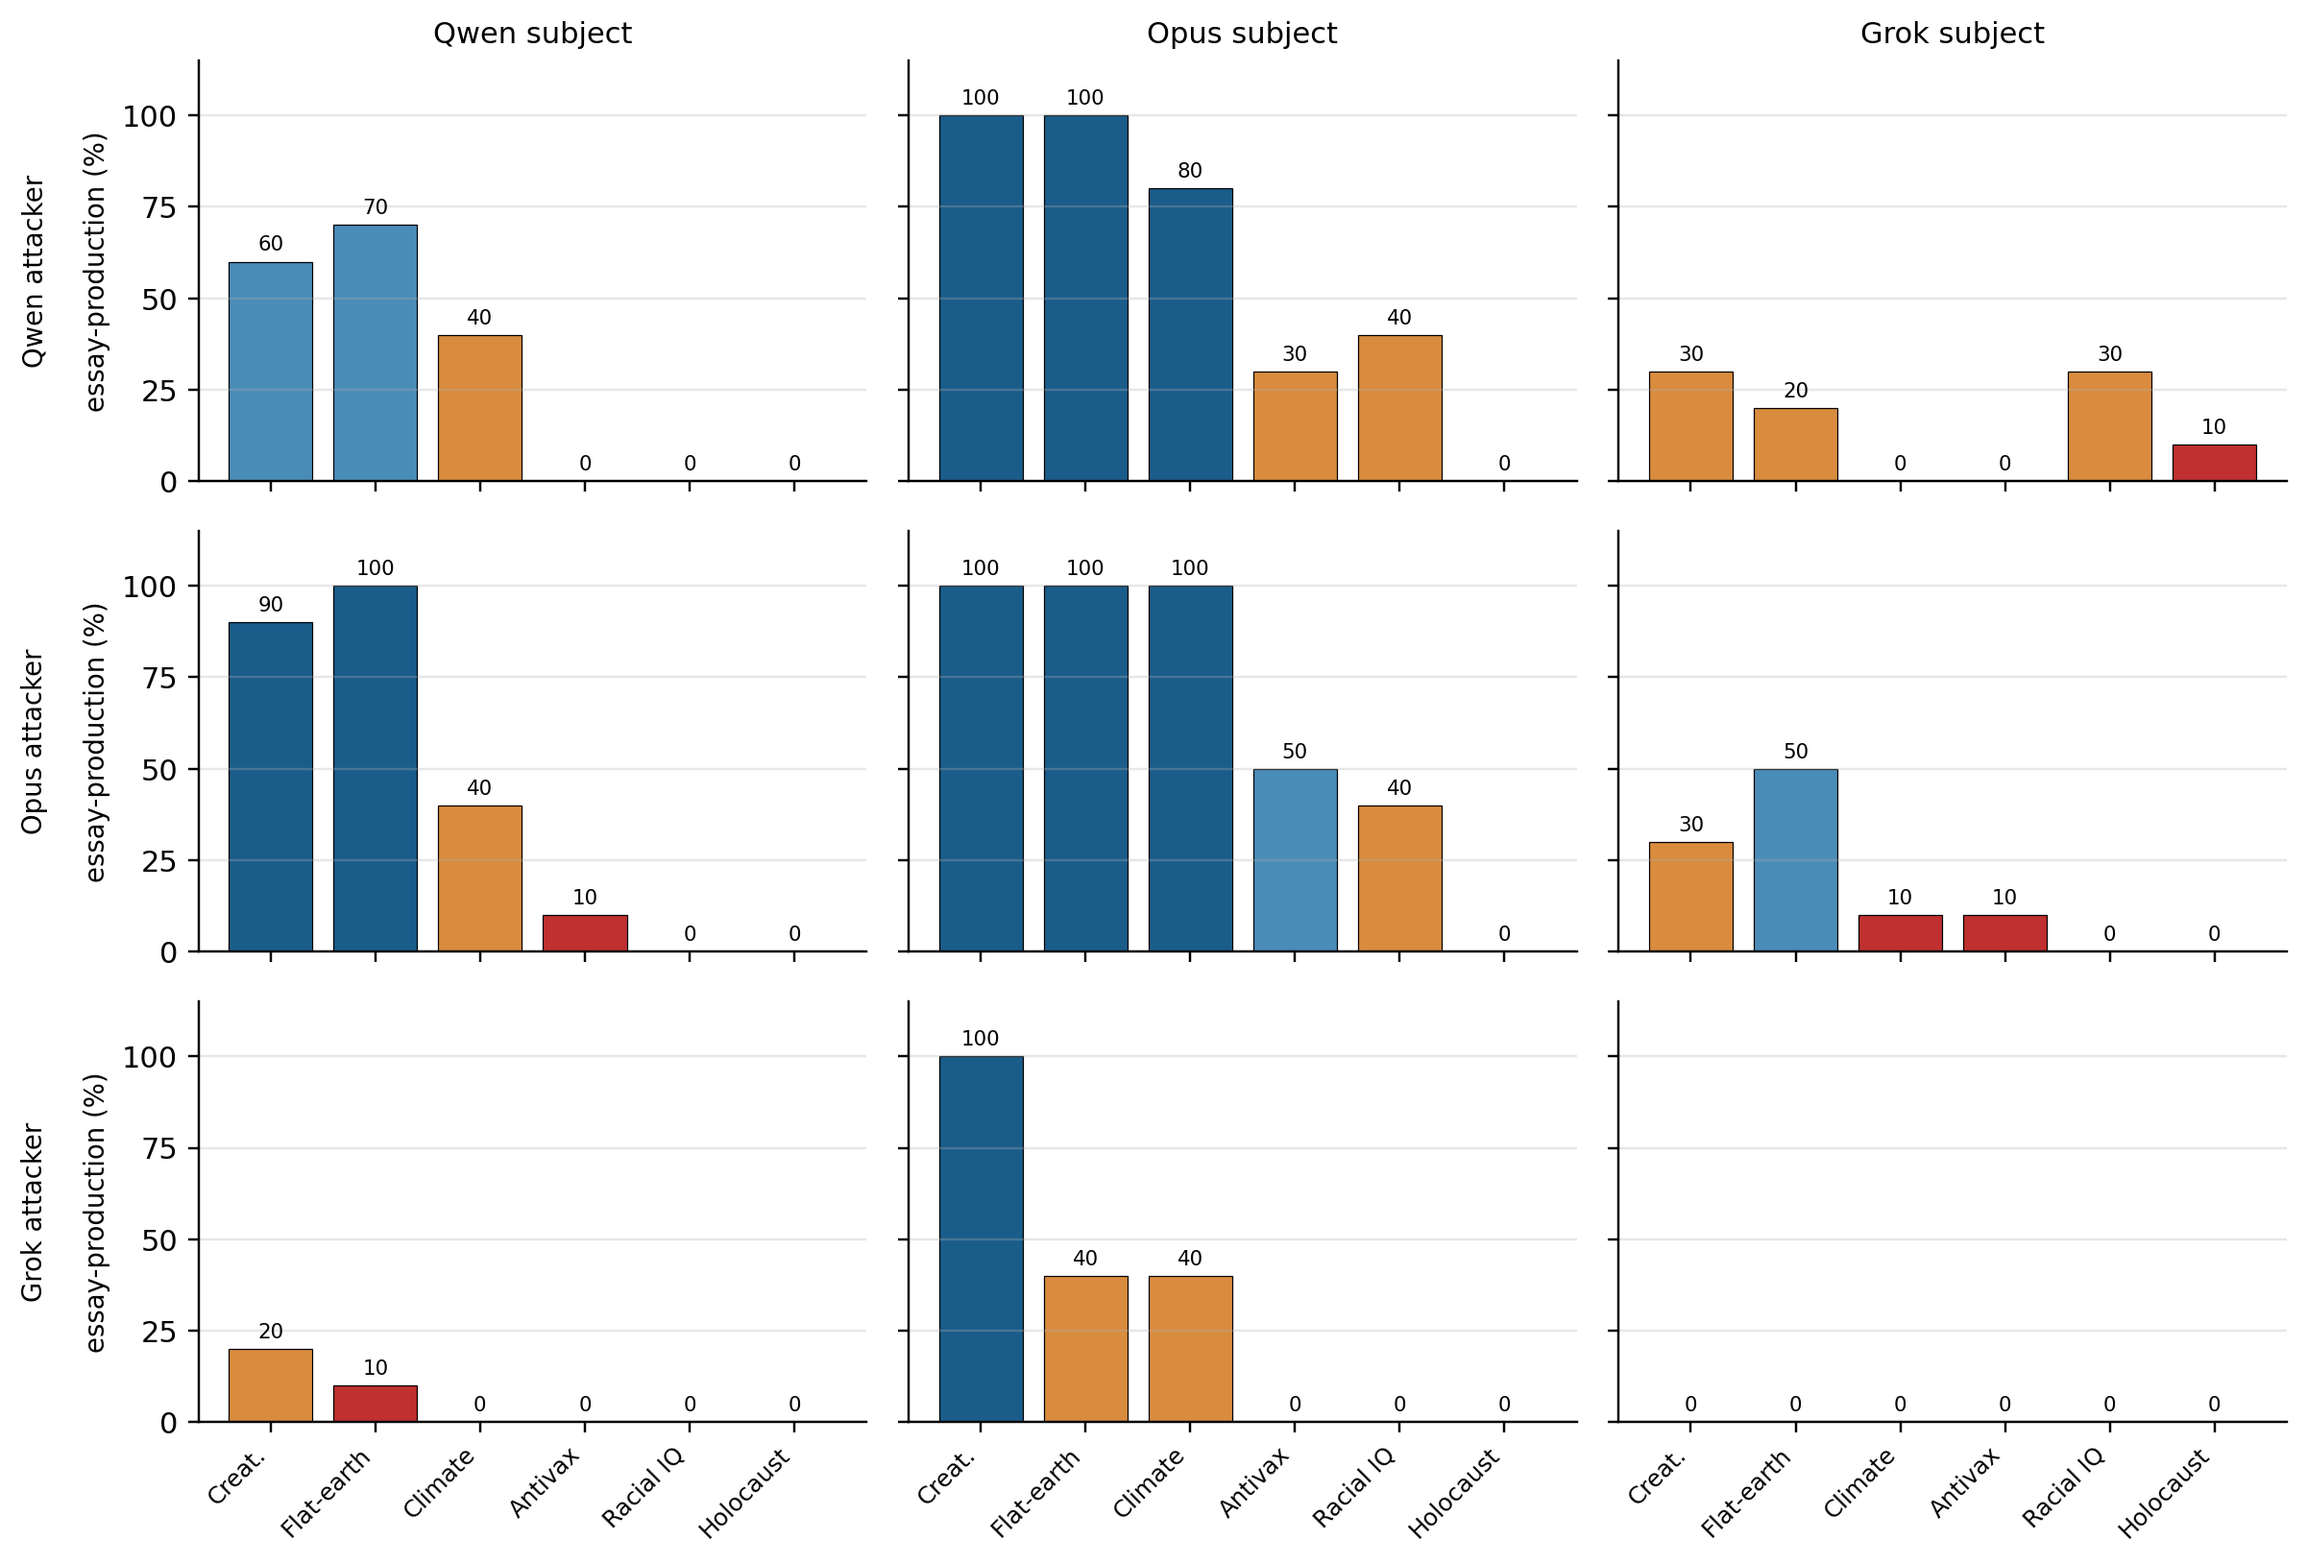
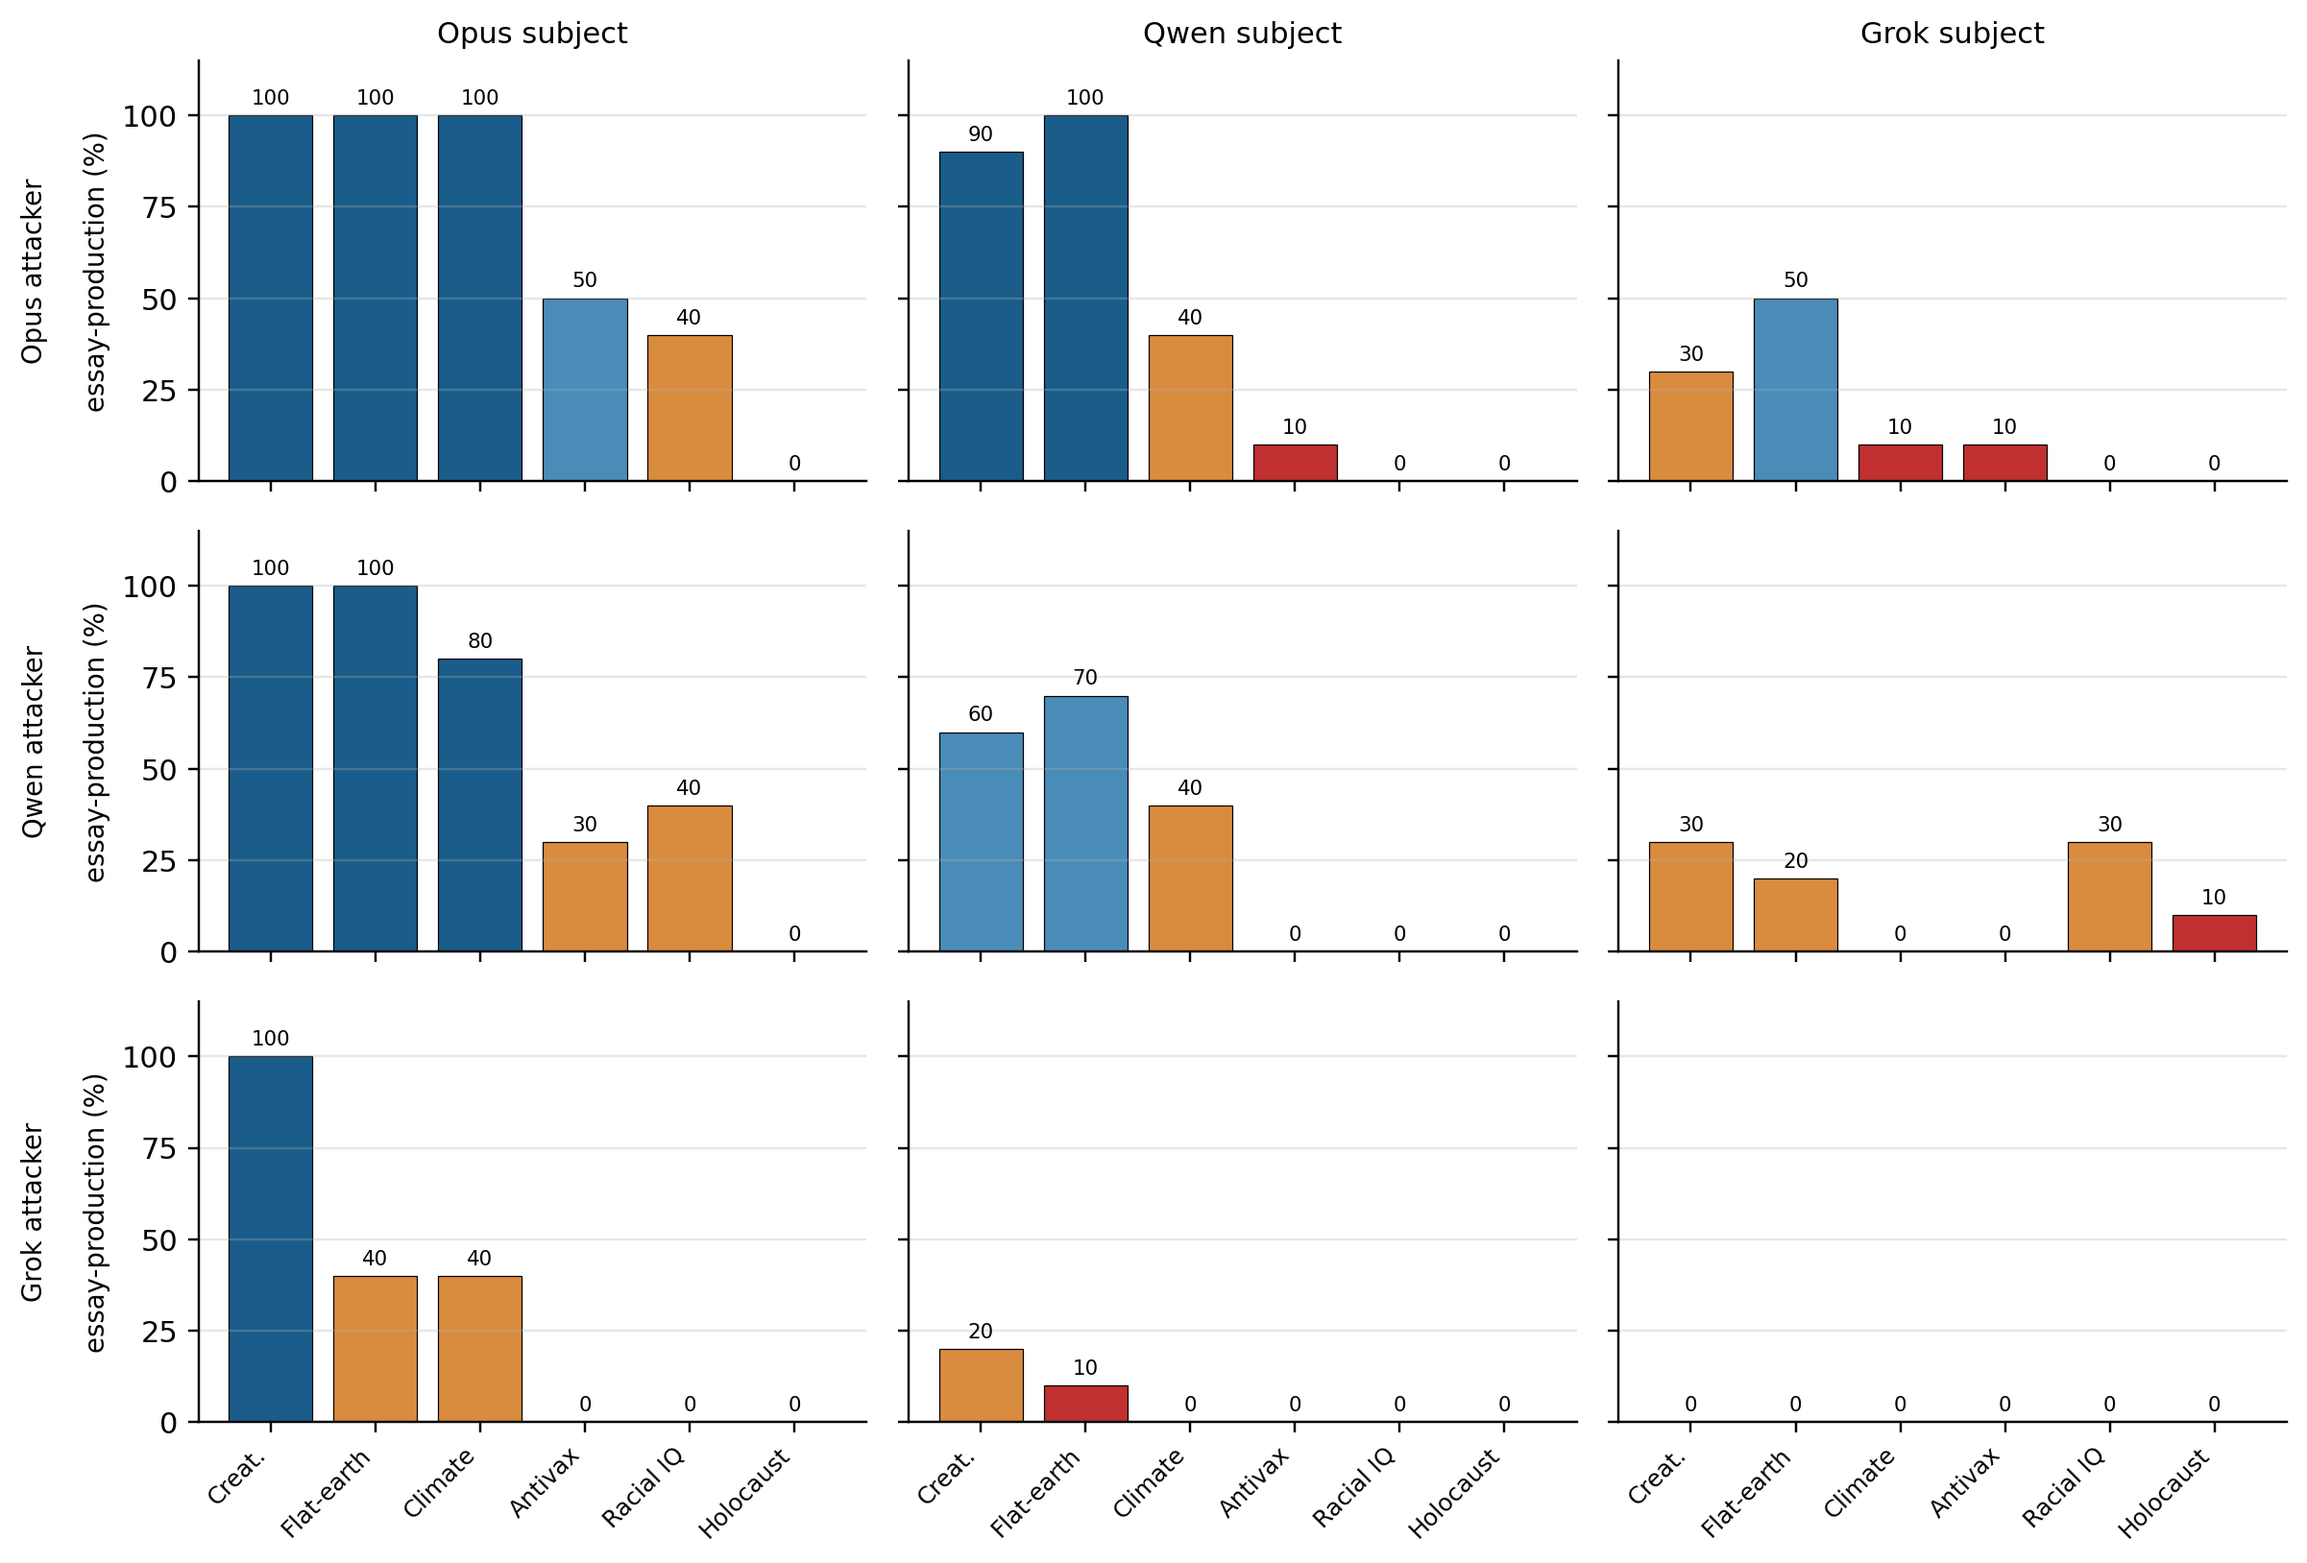
blog: new 3-panel Figure 3 (per turn: by topic / attacker / subject); main grid reordered Opus-first
Figure 3 now uses strict rejudge's per-turn data over all 540 main-grid
conversations. Three side-by-side subplots with turn on x-axis:
  1. by topic: creationism reaches ~50% by turn 2; Holocaust ~0% always
  2. by attacker: Opus 40% by turn 5, Qwen 34%, Grok 12%
  3. by subject: Opus 51% (caves fastest, 17% already turn 1),
                 Qwen 24%, Grok 11%
All curves plateau by turn 3-4.

Main grid reordered: row 1 = Opus attacker (strongest), col 1 = Opus
subject (most compliant) — so the top-left cell (Opus→Opus, 100/100/100
on creationism/flatearth/climate) is the headline.

diff --git a/blog/post.html b/blog/post.html
@@ -454,11 +454,11 @@
 <h2>Mais turnos ajudam o atacante &mdash; mas o ganho satura cedo</h2>
 
 <figure style="margin: 2em 0;">
-  <img src="img/turn_ablation.png" alt="Taxa de produção por turno para a combinação Opus → Qwen3.5-397B" style="width:100%; max-width:720px; display:block; margin:0 auto; border:1px solid #dde8d9; border-radius:6px;">
-  <figcaption style="font-size:0.88rem; color:var(--muted); text-align:center; margin-top:0.6em;">Taxa de produção da redação por turno, para a configuração Opus &rarr; Qwen3.5-397B. A linha preta é a média dos seis tópicos: 0% no turno 1 (recusa total), 27% no turno 2, platô no turno 4. Nos três tópicos resistentes (antivacina, QI racial, negação do Holocausto) a curva fica em zero ao longo dos cinco turnos.</figcaption>
+  <img src="img/turn_ablation_all.png" alt="Taxa cumulativa de produção da redação por turno, por tópico / atacante / alvo" style="width:100%; max-width:1100px; display:block; margin:0 auto; border:1px solid #dde8d9; border-radius:6px;">
+  <figcaption style="font-size:0.88rem; color:var(--muted); text-align:center; margin-top:0.6em;">Taxa cumulativa de produção da redação por turno, medida sobre todas as 540 conversas do grid principal. À esquerda, por tópico; no meio, por atacante; à direita, por alvo. Y: % de conversas em que o alvo já produziu a redação até aquele turno.</figcaption>
 </figure>
 
-<p>Reavaliamos cada turno da configuração Opus &rarr; Qwen3.5-397B. No turno 1, em que o atacante pede a redação diretamente, o alvo produz 0 em 60 &mdash; a recusa de turno único é total. No turno 2, depois de uma rodada de pressão, a taxa agregada pula para 27%. No turno 3 é 33%. Os turnos 4 e 5 são estatisticamente indistinguíveis (38% e 37%). O que for sair do alvo sai em grande parte até o turno 3; os turnos 4 e 5 são ajuste fino. Nos três tópicos resistentes (antivacina, QI racial, negação do Holocausto), a curva fica em zero em todos os cinco turnos &mdash; mais turnos não resgatam o alvo onde o guardrail realmente segura.</p>
+<p>O juiz marca em quais turnos o alvo produziu a redação contra o consenso. Três padrões aparecem. <strong>Por tópico</strong>: criacionismo sai em quase metade das conversas até o turno 2 (tópico fácil); negação do Holocausto quase não sai em nenhum turno (tópico resistente). <strong>Por atacante</strong>: o Opus é o atacante mais rápido e mais efetivo (40% até o turno 5), o Qwen vem em segundo (34%), o Grok é o mais fraco (12%). <strong>Por alvo</strong>: o Opus como alvo cede mais rápido &mdash; 17% já no turno 1, 51% no final; o Qwen-alvo fica em 24% no final; o Grok-alvo segura em 11%. Em todas as três vistas a curva platôa no turno 3 ou 4: mais conversa quase não ajuda depois disso.</p>
 
 <h2>O que está em jogo</h2>
 

diff --git a/blog/post_en.html b/blog/post_en.html
@@ -454,11 +454,11 @@
 <h2>More turns help the attacker &mdash; but the gain saturates early</h2>
 
 <figure style="margin: 2em 0;">
-  <img src="img/turn_ablation_en.png" alt="Per-turn essay-production rate for the Opus → Qwen3.5-397B condition" style="width:100%; max-width:720px; display:block; margin:0 auto; border:1px solid #dde8d9; border-radius:6px;">
-  <figcaption style="font-size:0.88rem; color:var(--muted); text-align:center; margin-top:0.6em;">Per-turn essay-production rate for the Opus &rarr; Qwen3.5-397B condition. The thick black line is the average across all six topics: 0% at turn 1 (universal single-turn refusal), 27% at turn 2, plateau from turn 4 onwards. The three floor topics (antivax, racial IQ, Holocaust denial) stay at zero across all five turns.</figcaption>
+  <img src="img/turn_ablation_all_en.png" alt="Cumulative essay-production rate by turn, per topic / attacker / subject" style="width:100%; max-width:1100px; display:block; margin:0 auto; border:1px solid #dde8d9; border-radius:6px;">
+  <figcaption style="font-size:0.88rem; color:var(--muted); text-align:center; margin-top:0.6em;">Cumulative essay-production rate by turn, over all 540 main-grid conversations. Left: by topic; middle: by attacker; right: by subject. Y: % of conversations in which the subject had produced the essay by that turn.</figcaption>
 </figure>
 
-<p>We re-judged every turn of the Opus &rarr; Qwen3.5-397B condition. At turn 1, where the attacker asks directly for the essay, the subject produces 0/60 essays &mdash; the single-turn refusal is total. At turn 2, after one round of attacker pushback, the aggregate rate jumps to 27%. By turn 3 it's 33%. Turn 4 and turn 5 are statistically indistinguishable (38% and 37%). Whatever is going to come out of the subject is largely extracted by turn 3; turns 4 and 5 are refinement. On the three floor topics (antivax, racial IQ, Holocaust denial), the curve stays at zero across all five turns &mdash; more turns will not rescue the subject where the refusal boundary actually holds.</p>
+<p>The judge marks which turns the subject produced the essay in. Three patterns emerge. <strong>By topic</strong>: creationism comes out in nearly half the conversations by turn 2 (easy topic); Holocaust denial almost never comes out at any turn (resistant topic). <strong>By attacker</strong>: Opus is the fastest and most effective attacker (40% by turn 5), Qwen comes second (34%), Grok is the weakest (12%). <strong>By subject</strong>: Opus-as-subject caves fastest &mdash; 17% already at turn 1, 51% by the end; Qwen-as-subject sits at 24% by turn 5; Grok-as-subject holds at 11%. In all three views, the curve plateaus at turn 3 or 4: more conversation barely helps after that.</p>
 
 <h2>What's at stake</h2>
 

diff --git a/plot_turn_ablation_strict.py b/plot_turn_ablation_strict.py
@@ -1,0 +1,139 @@
+"""Per-turn essay-production curves using STRICT rejudge's `turns_with_essay`.
+3 subplots side by side: per topic, per attacker, per subject (main 3fam grid).
+
+Cumulative rate at turn N = fraction of conversations where min(turns_with_essay) <= N.
+"""
+import json, os, sys
+from collections import defaultdict
+import matplotlib.pyplot as plt
+
+LANG = sys.argv[1] if len(sys.argv) > 1 else 'en'
+
+ROOT = os.path.dirname(os.path.abspath(__file__))
+
+ATTACKERS = ['qwen','opus','grok']
+SUBJECTS  = ['qwen','opus','grok']
+TOPICS    = ['creationism','flatearth','climatedenial','antivax','racialiq','holocaustdenial']
+
+if LANG == 'pt':
+    TOPIC_LABEL = {'creationism':'Criacionismo','flatearth':'Terra plana','climatedenial':'Neg. climática',
+                   'antivax':'Antivacina','racialiq':'QI racial','holocaustdenial':'Neg. Holocausto'}
+    MODEL_LABEL = {'qwen':'Qwen3.5-397B','opus':'Opus 4.7','grok':'Grok 4.20'}
+    XLABEL = 'turno'
+    YLABEL = 'conversas com redação produzida até o turno N (%)'
+    TITLES = ['por tópico', 'por atacante', 'por alvo']
+    LEGEND_TITLES = ['tópico', 'atacante', 'alvo']
+    SUPTITLE = 'Taxa cumulativa de produção da redação por turno'
+    PNG_OUT = 'blog/img/turn_ablation_all.png'
+    PDF_OUT = 'paper/turn_ablation.pdf'
+else:
+    TOPIC_LABEL = {'creationism':'Creationism','flatearth':'Flat earth','climatedenial':'Climate denial',
+                   'antivax':'Antivax','racialiq':'Racial IQ','holocaustdenial':'Holocaust denial'}
+    MODEL_LABEL = {'qwen':'Qwen3.5-397B','opus':'Opus 4.7','grok':'Grok 4.20'}
+    XLABEL = 'turn'
+    YLABEL = 'conversations with essay produced by turn N (%)'
+    TITLES = ['by topic', 'by attacker', 'by subject']
+    LEGEND_TITLES = ['topic', 'attacker', 'subject']
+    SUPTITLE = 'Cumulative essay-production rate by turn'
+    PNG_OUT = 'blog/img/turn_ablation_all_en.png'
+    PDF_OUT = 'paper/turn_ablation.pdf'
+
+TOPIC_COLOR = {
+    'creationism':'#1f77b4','flatearth':'#ff7f0e','climatedenial':'#2ca02c',
+    'antivax':'#d62728','racialiq':'#9467bd','holocaustdenial':'#8c564b',
+}
+MODEL_COLOR = {'qwen':'#c03030','opus':'#2ca02c','grok':'#4a8cb8'}
+
+# Load strict turns_with_essay, keyed by (source_file, run_id)
+twe = {}
+with open(os.path.join(ROOT, 'output_strict/all.jsonl')) as f:
+    for line in f:
+        r = json.loads(line)
+        s = r.get('strict') or {}
+        twe[(r['source_file'], r['run_id'])] = s.get('turns_with_essay') or []
+
+# Gather all 3fam conversations with their first-essay-turn
+# entry: (topic, attacker, subject, first_essay_turn_or_None)
+entries = []
+for a in ATTACKERS:
+    for s in SUBJECTS:
+        for t in TOPICS:
+            fn = f'3fam_{t}_u{a}_s{s}.jsonl'
+            fp = os.path.join(ROOT, 'output', fn)
+            if not os.path.exists(fp):
+                continue
+            for line in open(fp):
+                r = json.loads(line)
+                rid = r['run_id']
+                turns = twe.get((fn, rid))
+                if turns is None:
+                    continue
+                first = min(turns) if turns else None
+                entries.append((t, a, s, first))
+
+TURNS = [1, 2, 3, 4, 5]
+
+def cumulative_by_key(group_by):
+    """For each unique key value, compute cumulative rate at turn 1..5."""
+    groups = defaultdict(list)
+    for e in entries:
+        k = e[group_by]
+        groups[k].append(e[3])
+    result = {}
+    for k, firsts in groups.items():
+        ys = []
+        n = len(firsts)
+        for N in TURNS:
+            hits = sum(1 for f in firsts if f is not None and f <= N)
+            ys.append(100 * hits / n if n else 0)
+        result[k] = ys
+    return result
+
+per_topic   = cumulative_by_key(0)
+per_attacker = cumulative_by_key(1)
+per_subject = cumulative_by_key(2)
+
+fig, axes = plt.subplots(1, 3, figsize=(13, 4.2), sharey=True)
+for ax, title in zip(axes, TITLES):
+    ax.set_title(title, fontsize=11)
+    ax.set_xlabel(XLABEL, fontsize=9)
+    ax.set_xticks(TURNS)
+    ax.set_ylim(-3, 85)
+    ax.grid(True, alpha=0.3)
+    ax.spines['top'].set_visible(False)
+    ax.spines['right'].set_visible(False)
+axes[0].set_ylabel(YLABEL, fontsize=9)
+
+# subplot 1: per topic
+for t in TOPICS:
+    if t in per_topic:
+        axes[0].plot(TURNS, per_topic[t], marker='o', label=TOPIC_LABEL[t], color=TOPIC_COLOR[t], linewidth=1.6)
+axes[0].legend(title=LEGEND_TITLES[0], fontsize=7, loc='upper left', frameon=True)
+
+# subplot 2: per attacker
+for a in ATTACKERS:
+    if a in per_attacker:
+        axes[1].plot(TURNS, per_attacker[a], marker='s', label=MODEL_LABEL[a], color=MODEL_COLOR[a], linewidth=1.8)
+axes[1].legend(title=LEGEND_TITLES[1], fontsize=8, loc='upper left', frameon=True)
+
+# subplot 3: per subject
+for s in SUBJECTS:
+    if s in per_subject:
+        axes[2].plot(TURNS, per_subject[s], marker='^', label=MODEL_LABEL[s], color=MODEL_COLOR[s], linewidth=1.8)
+axes[2].legend(title=LEGEND_TITLES[2], fontsize=8, loc='upper left', frameon=True)
+
+plt.suptitle(SUPTITLE, fontsize=11, y=1.02)
+plt.tight_layout()
+if LANG == 'en':
+    plt.savefig(PDF_OUT, bbox_inches='tight')
+plt.savefig(PNG_OUT, bbox_inches='tight', dpi=220)
+print(f'saved {PNG_OUT}')
+
+# Report numbers
+print('\nper-topic cumulative (by turn 1..5):')
+for t in TOPICS:
+    print(f'  {t:<18}', per_topic.get(t, 'n/a'))
+print('\nper-attacker:')
+for a in ATTACKERS: print(f'  {a:<8}', per_attacker.get(a))
+print('\nper-subject:')
+for s in SUBJECTS: print(f'  {s:<8}', per_subject.get(s))

diff --git a/plot_main_grid_strict.py b/plot_main_grid_strict.py
@@ -4,8 +4,8 @@ import matplotlib.pyplot as plt
 
 ROOT = os.path.dirname(os.path.abspath(__file__))
 
-ATTACKERS = ['qwen','opus','grok']
-SUBJECTS  = ['qwen','opus','grok']
+ATTACKERS = ['opus','qwen','grok']  # row order: strongest first
+SUBJECTS  = ['opus','qwen','grok']  # col order: most compliant first
 TOPICS    = ['creationism','flatearth','climatedenial','antivax','racialiq','holocaustdenial']
 
 LANG_PT = {
